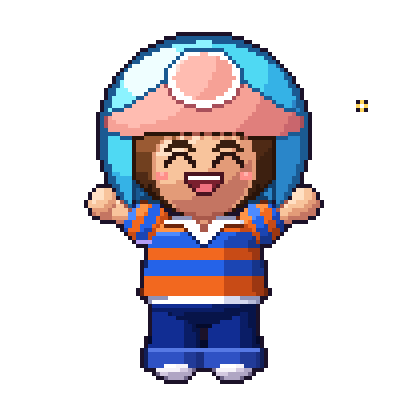
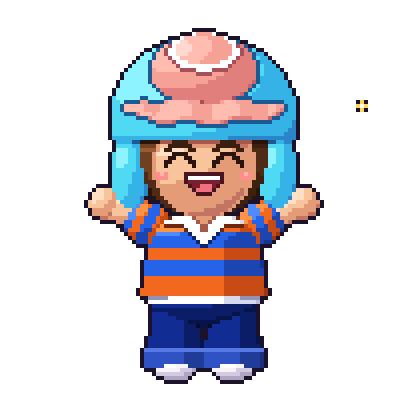
Chibi spin: soft hat with ear flaps instead of helmet
Replace the glossy bubble helmet with a matte cyan hat that sits on the
head, soft ear flaps, and a pink cap on top whose wavy visor sticks out
and shades the forehead. Face and hair now show under the hat from the
side and back.

Claude-Session: https://claude.ai/code/session_01Y6ma7NKWrqNKTgJfj3nx7x

diff --git a/chibi/girando/spin.py b/chibi/girando/spin.py
@@ -144,6 +144,88 @@ def torso_ab(y):
     return 16.4 * s, 12.4 * s
 
 
+
+# ---------------------------------------------------------------- soft hat (SDF ray-march)
+def sd_ell(p, c, r):
+    q = (p - np.asarray(c, float)) / np.asarray(r, float)
+    k0 = np.linalg.norm(q, axis=-1)
+    k1 = np.linalg.norm(q / np.asarray(r, float), axis=-1)
+    return k0 * (k0 - 1.0) / np.maximum(k1, 1e-6)
+
+
+def smin(a, b, k):
+    h = np.clip(0.5 + 0.5 * (b - a) / k, 0, 1)
+    return b * (1 - h) + a * h - k * h * (1 - h)
+
+
+def smax(a, b, k):
+    return -smin(-a, -b, k)
+
+
+VIS_A = math.radians(16)          # visor tilt (front edge down)
+CROWN_C = np.array([0, 22.5, 13.0]); CROWN_R = np.array([16.0, 12.8, 15.5])
+TOP_D = np.array([0, -0.74, 0.67]); TOP_D = TOP_D / np.linalg.norm(TOP_D)
+
+
+def hat_parts(p):
+    x, y, z = p[..., 0], p[..., 1], p[..., 2]
+    dome = sd_ell(p, (0, 35.5, -1.0), (27.5, 25.0, 26.5))
+    dome = smax(dome, y - 41.0, 2.0)
+    flaps = np.minimum(sd_ell(p, (-21.8, 51.5, -1.5), (5.6, 12.0, 8.6)),
+                       sd_ell(p, (21.8, 51.5, -1.5), (5.6, 12.0, 8.6)))
+    cyan = smin(dome, flaps, 4.0)
+    crown = sd_ell(p, CROWN_C, CROWN_R)
+    q = p - np.array([0, 32.0, 24.0])
+    ca, sa = math.cos(VIS_A), math.sin(VIS_A)
+    qy = q[..., 1] * ca - q[..., 2] * sa
+    qz = q[..., 1] * sa + q[..., 2] * ca
+    qx = q[..., 0]
+    qy = qy - 0.7 * np.sin(qx * 0.42 + 0.4) * np.clip(qz / 13 + 0.6, 0, 1)
+    vis = sd_ell(np.stack([qx, qy, qz], -1), (0, 0, 0), (23.5, 2.3, 13.0))
+    vis = smax(vis, -qz - 2.0, 1.0)          # only the front part of the plate
+    return cyan, crown, vis
+
+
+def hat_sdf(p):
+    cyan, crown, vis = hat_parts(p)
+    return np.minimum(np.minimum(cyan, crown), vis)
+
+
+def march_hat(o, d):
+    c = np.array([0, 40.0, 4.0]); R = 42.0
+    oc = o - c
+    b = (oc * d).sum(-1)
+    cc = (oc * oc).sum(-1) - R * R
+    disc = b * b - cc
+    ok = disc > 0
+    sq = np.sqrt(np.where(ok, disc, 0))
+    t = np.where(ok, -b - sq, np.inf)
+    tmax = np.where(ok, -b + sq, -np.inf)
+    t = np.where(ok, t, 0)
+    active = ok.copy()
+    hit = np.zeros_like(ok)
+    for _ in range(220):
+        if not active.any():
+            break
+        p = o + t[..., None] * d
+        dist = hat_sdf(p)
+        newhit = active & (dist < 0.03)
+        hit |= newhit
+        active &= ~newhit
+        t = np.where(active, t + np.maximum(dist * 0.75, 0.02), t)
+        active &= t < tmax
+    return np.where(hit, t, np.inf)
+
+
+def hat_normal(p):
+    e = 0.12
+    n = np.zeros_like(p)
+    for i in range(3):
+        dv = np.zeros(3); dv[i] = e
+        n[..., i] = hat_sdf(p + dv) - hat_sdf(p - dv)
+    return n
+
+
 def render(phi, hop=0.0, arm=25.0):
     with np.errstate(all='ignore'):
         return _render(phi, hop, arm)
@@ -178,16 +260,10 @@ def _render(phi, hop=0.0, arm=25.0):
 
     prims = []
 
-    # helmet shell with face opening
-    t1, t2, M = ellipsoid(o, d, HELM_C, I3, HELM_R)
-    p1 = o + t1[..., None] * d
-    p2 = o + t2[..., None] * d
-    r1 = helm_removed(p1)
-    r2 = helm_removed(p2)
-    th = np.where(np.isfinite(t1) & ~r1, t1, np.where(np.isfinite(t2) & ~r2, t2, np.inf))
-    inner = np.isfinite(t1) & r1
-    commit(th, 0, lambda p: ell_normal(p, HELM_C, M) * np.where(inner, -1, 1)[..., None], inner)
-    prims.append('helm')
+    # soft hat (dome + ear flaps) with pink cap on top
+    th = march_hat(o, d)
+    commit(th, 0, hat_normal)
+    prims.append('hat')
 
     t1, _, M = ellipsoid(o, d, HEAD_C, I3, HEAD_R)
     commit(t1, 1, lambda p: ell_normal(p, HEAD_C, M)); prims.append('head')
@@ -260,12 +336,18 @@ def _render(phi, hop=0.0, arm=25.0):
     x, y, z = PL[..., 0], PL[..., 1], PL[..., 2]
 
     m = pid == 0
-    cap, ring, ball = brim_region(PL)
+    cyan_d, crown_d, vis_d = hat_parts(PL)
+    pinkpart = np.minimum(crown_d, vis_d) < cyan_d
+    q = unit((PL - CROWN_C) / CROWN_R)
+    ang = np.arccos(np.clip((q * TOP_D).sum(-1), -1, 1))
+    oncrown = crown_d <= vis_d
     grp[m] = HELM
-    grp[m & INNER] = HELM_IN
-    grp[m & ~INNER & cap] = CAP
-    grp[m & ~INNER & ring] = RING
-    grp[m & ~INNER & ball] = BALL
+    grp[m & pinkpart] = CAP
+    grp[m & pinkpart & oncrown & (ang < 0.56)] = BALL
+    grp[m & pinkpart & oncrown & (ang >= 0.56) & (ang < 0.70)] = RING
+    part = pid.copy()
+    part[m & pinkpart & oncrown] = 16
+    part[m & pinkpart & ~oncrown] = 17
 
     m = pid == 1
     bang = np.interp(x, BANG_X, BANG_Y)
@@ -306,11 +388,15 @@ def _render(phi, hop=0.0, arm=25.0):
     # shading level 0..4
     lvl = np.full((H, W), 2)
     lvl[inten < 0.40] = 1
-    lvl[inten < 0.03] = 0
+    lvl[inten < -0.32] = 0
     lvl[inten > 0.80] = 3
-    hi_groups = np.isin(grp, [HELM, BALL])
+    hi_groups = np.isin(grp, [BALL])
     lvl[hi_groups & (inten > 0.95)] = 4
     lvl[(grp == HELM_IN)] = np.clip(lvl[grp == HELM_IN] - 1, 0, 2)
+    # soft shadow cast by the hat rim / visor
+    under = np.isin(grp, [FACE_SKIN, HAIR]) & (y < 43.6)
+    lvl[under] = np.clip(lvl[under] - 1, 0, 3)
+    lvl[np.isin(grp, [CAP]) & (nw[..., 1] > 0.35)] = np.minimum(lvl[np.isin(grp, [CAP]) & (nw[..., 1] > 0.35)], 1)
     # neck & v-neck sit in shadow
     lvl[np.isin(grp, [NECK, V_SKIN])] = np.minimum(lvl[np.isin(grp, [NECK, V_SKIN])], 1)
     # cuff top rim + fold line
@@ -327,12 +413,6 @@ def _render(phi, hop=0.0, arm=25.0):
             img[mm & (lvl == L)] = ramp[L]
     # lavender reflected light on the dark side of the sleeves
     img[np.isin(grp, [SL_O, SL_B]) & (lvl == 0) & (nw[..., 0] < 0)] = RAMPS['lav'][2]
-    # glossy crescent on the helmet (screen-space, helmet is a sphere)
-    sx = (xx + 0.5) / K - PIV
-    sy = (yy + 0.5) / K + hop
-    cres = ((((sx + 16) / 8.5) ** 2 + ((sy - 22) / 4.2) ** 2) <= 1) & \
-           ((((sx + 13.5) / 8.5) ** 2 + ((sy - 24.6) / 4.2) ** 2) > 1)
-    img[(grp == HELM) & cres] = RAMPS['cyan'][4]
 
     # ------------------------------------------------------------ lines
     def nb(a, dx, dy, fill):
@@ -348,7 +428,8 @@ def _render(phi, hop=0.0, arm=25.0):
     for dx, dy in ((1, 0), (-1, 0), (0, 1), (0, -1)):
         dn = nb(depth, dx, dy, np.inf)
         gn = nb(grp, dx, dy, -1)
-        line |= hit & (gn >= 0) & (dn < depth - 2.6 / 1.0)
+        pn = nb(part, dx, dy, -1)
+        line |= hit & (gn >= 0) & (((dn < depth - 2.6) & (pn != part)) | (dn < depth - 9.0))
         for a_, b_ in pair_lines:
             line |= (grp == a_) & (gn == b_)
         soft |= (grp == FACE_SKIN) & (gn == HAIR) & (np.abs(dn - depth) < 2.6)
